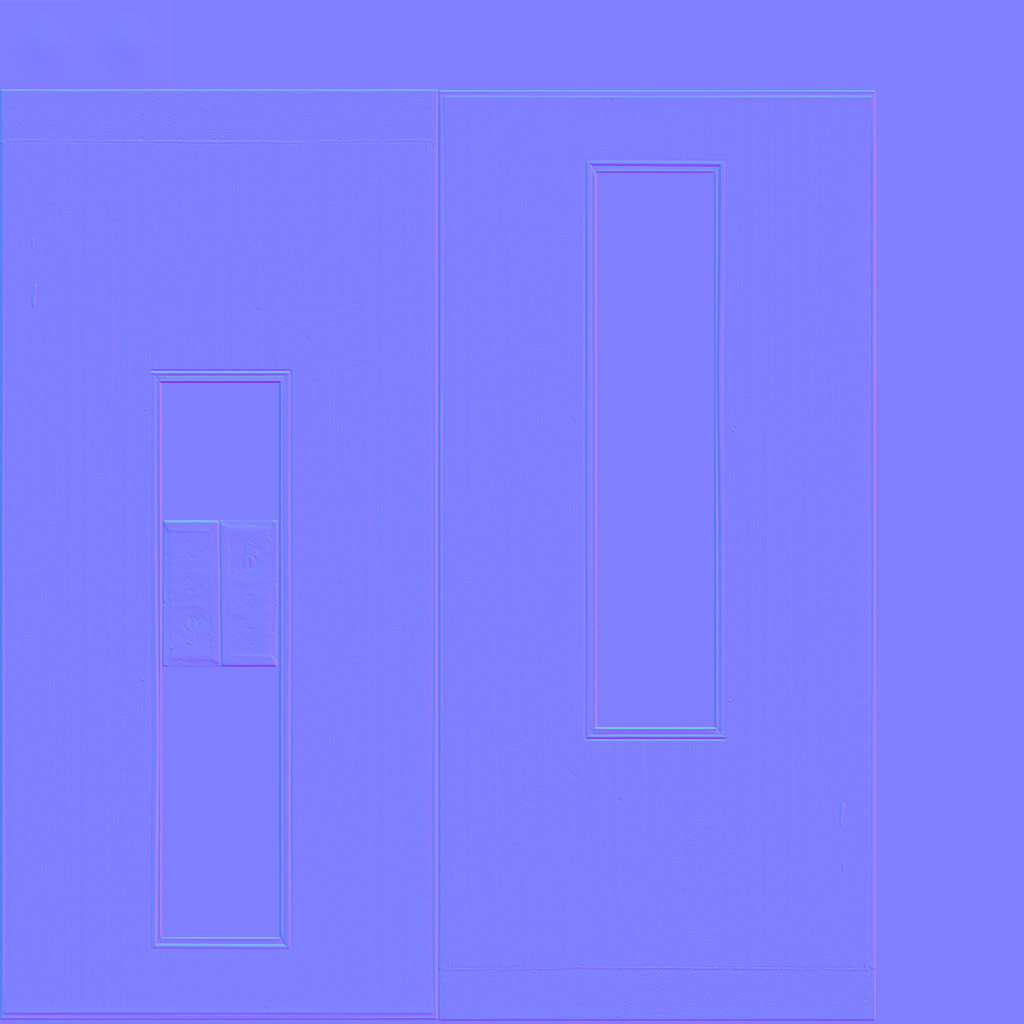
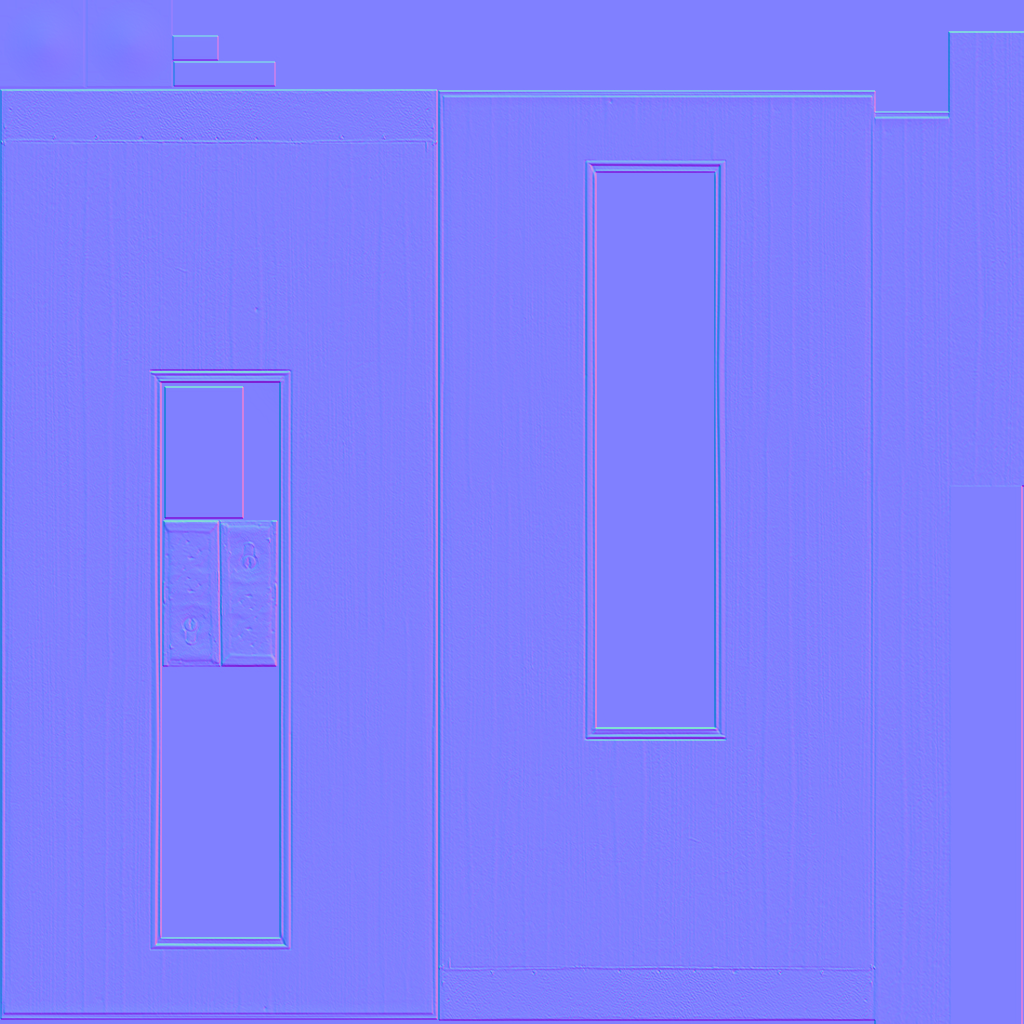
Added: +SaveLoad script, But only with ideas in "//" comment. Changed: +Updated door texture

diff --git a/Assets/Scripts/Global/SaveLoad.cs b/Assets/Scripts/Global/SaveLoad.cs
@@ -1,0 +1,34 @@
+using UnityEngine;
+using System.Collections;
+
+public class SaveLoad : MonoBehaviour {
+
+	// Use this for initialization
+	void Start () {
+	
+	}
+	
+	// Update is called once per frame
+	void Update () {
+	
+	}
+
+
+    //Array med bools, om spilleren har klaret en bane eller ej.
+    //Host mind skal gemmes. 
+
+    //Method to save data
+    public void Save()
+    {
+        //PlayerPrefsX.SetStringArray("Names", names)
+        // PlayerPrefs.SetInt("LEVELREACHED", InsertNumber);
+    }
+
+
+    //Method to load data
+    public void Load()
+    {
+        // LevelReached = PlayerPrefs.GetInt("LEVELREACHED");
+        // something = PlayerPrefsX.GetStringArray("Names");
+    }
+}
